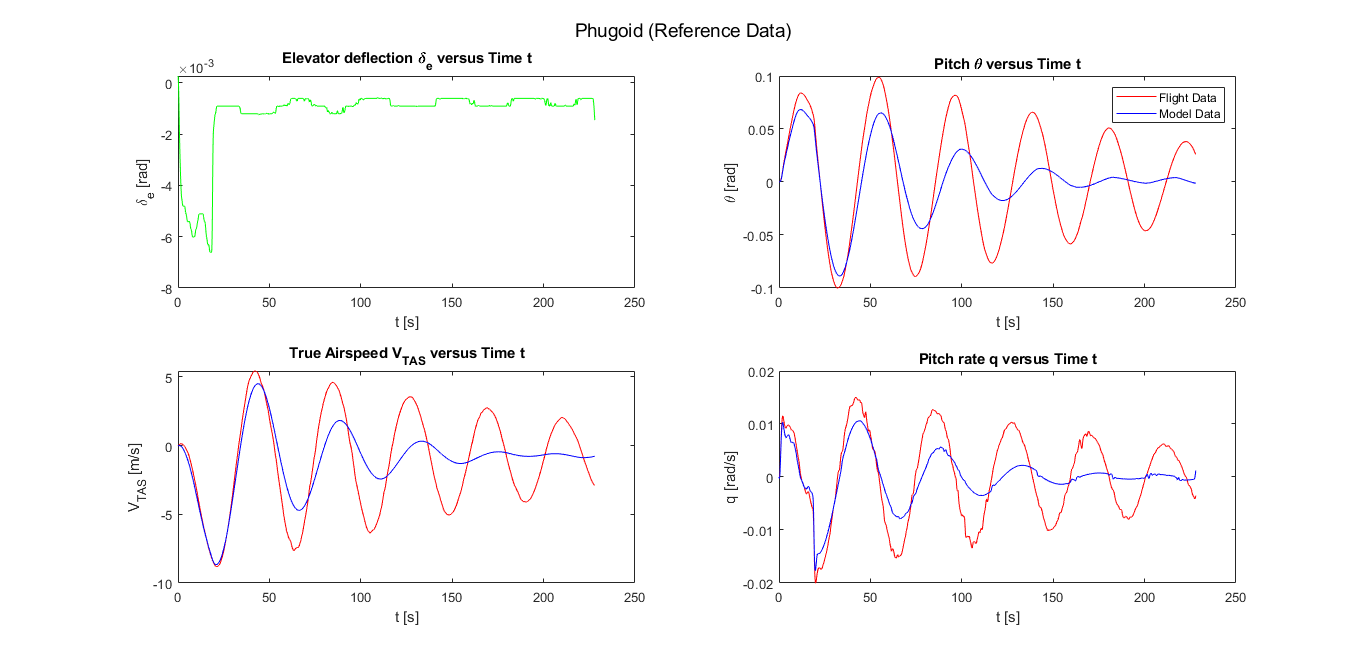
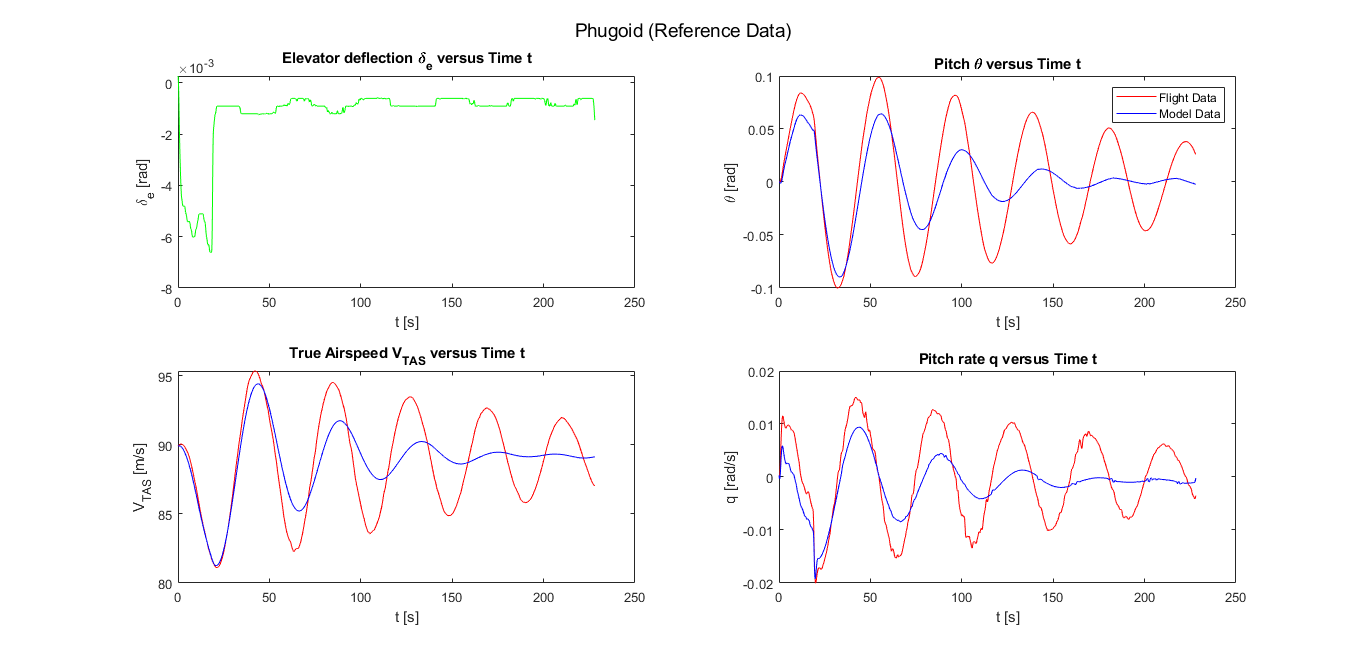
final things

diff --git a/Code/NUMERICAL_MODEL/Numerical_Ihab.m b/Code/NUMERICAL_MODEL/Numerical_Ihab.m
@@ -29,13 +29,13 @@ i_SPIRref = 39111;
 % Index for flight data
 
 i_SPfd = 30401;
-i_PHfd = 32511;
+i_PHfd = 32511; %32511
 i_DRfd = 34411;
 i_DRDampfd = 35211;
 i_APfd = 31611;
 i_SPIRfd = 36781; % 36511
 
-index = i_DRDampref; % Index of interest for initial conditions
+index = i_PHfd; % Index of interest for initial conditions
 
 %Order in list: hp0 [m], V0[m/s], alpha0 [rad], th0 [rad], mass [kg],td [s]
 
@@ -55,7 +55,7 @@ drdamp_fd = {hp(i_DRDampfd),vtas(i_DRDampfd),alpha(i_DRDampfd),theta(i_DRDampfd)
 apr_fd = {hp(i_APfd),vtas(i_APfd),alpha(i_APfd),theta(i_APfd),Mtotal(i_APfd), 14};
 spiral_fd = {hp(i_SPIRfd),vtas(i_SPIRfd),alpha(i_SPIRfd),theta(i_SPIRfd),Mtotal(i_SPIRfd) , 145};
 
-selection = drdamp_ref;   %Replace name with flight condition of interest
+selection = phugoid_fd;   %Replace name with flight condition of interest
 
 % Initial conditions
 hp0    = selection{1}(1);             % Initial height [m]
@@ -133,14 +133,14 @@ CD = CD0 + (CL)^2/(pi*A*e);  % Drag coefficient [ ]
 
 % Stabiblity derivatives
 
-CX0    = W*sin(th0)/(0.5*rho*V0^2*S);
+CX0    = W.*sin(th0)/(0.5*rho.*V0.^2.*S);
 CXu    = -0.095;
 CXa    = -0.47966;
 CXadot = +0.08330;
 CXq    = -0.28170;
 CXde   = -0.03728;
 
-CZ0    = -W*cos(th0)/(0.5*rho*V0^2*S);
+CZ0    = -W.*cos(th0)/(0.5*rho.*V0.^2.*S);
 CZu    = -0.37616;
 CZa    = -5.74340;
 CZadot = -0.00350;
@@ -172,12 +172,11 @@ Cnda   =  -0.0120;
 Cndr   =  -0.0939;
 
 
-
 %Numerical model stuff starts here
 %V0ARIABLES THAT ARE MISSING
 
 CXdt = 0.000;   %trim tab is really small for this aircraft so it's contribution
-CZdt = 0.000;   %compared to the actual eleV0ator is an order of 
+CZdt = 0.000;   %compared to the actual elevator is an order of 
 Cmdt = 0.000;   %magnitude smaller
 
 %%
@@ -215,8 +214,9 @@ C3_s = [cs_11;cs_21;0;cs_41];
 A_s = -1*C1_s\C2_s;
 B_s = -1*C1_s\C3_s;
 C_s = [1 0 0 0; 0 1 0 0; 0 0 1 0; 0 0 0 1];
-D_s = zeros(4,1);
-
+% D_s = zeros(4,1);
+% D_s = -1.5*ones(4,1);
+D_s = ones(4,1);
 sym_sys = ss(A_s,B_s,C_s,D_s); % State-space system
 eig_sym = eig(A_s); % Eigenvalues
 
@@ -284,14 +284,12 @@ p_resp = asym_resp(:,3);
 r_resp = asym_resp(:,4);
 
 % short_period_plot(alphastab,thetastab,delta_e(index:endind),q(index:endind),time,alpha_resp,q_resp,time,theta_resp);
-% phugoid_plot(vtasstab,thetastab,delta_e(index:endind),q(index:endind),time,vtas_resp,theta_resp,q_resp,time);
-dr_plot(p(index:endind),phi(index:endind),r(index:endind),delta_a(index:endind),delta_r(index:endind),time,p_resp,phi_resp,r_resp,time,1);
+phugoid_plot(vtas(index:endind),thetastab,delta_e(index:endind),q(index:endind),time,vtas_resp+V0,theta_resp,q_resp,time);
+% dr_plot(p(index:endind),phi(index:endind),r(index:endind),delta_a(index:endind),delta_r(index:endind),time,p_resp,phi_resp,r_resp,time,1);
 % spiral_plot(p(index:endind),phi(index:endind),r(index:endind),delta_a(index:endind),delta_r(index:endind),time,p_resp,phi_resp,r_resp,time);
 % ap_roll_plot(p(index:endind),phi(index:endind),r(index:endind),delta_a(index:endind),delta_r(index:endind),time,p_resp,phi_resp,r_resp,time);
 
-% hold on
-% plot(time,theta_resp,'b');
-% plot(time,vtas(index:endind)-vtas(index),'r');
-% legend('Response','Flight Data');
-% hold off
+%%
+% -1*np.ones(length(time),1)
 
+% initial(sym_sys,[80,0,0,0],10)
